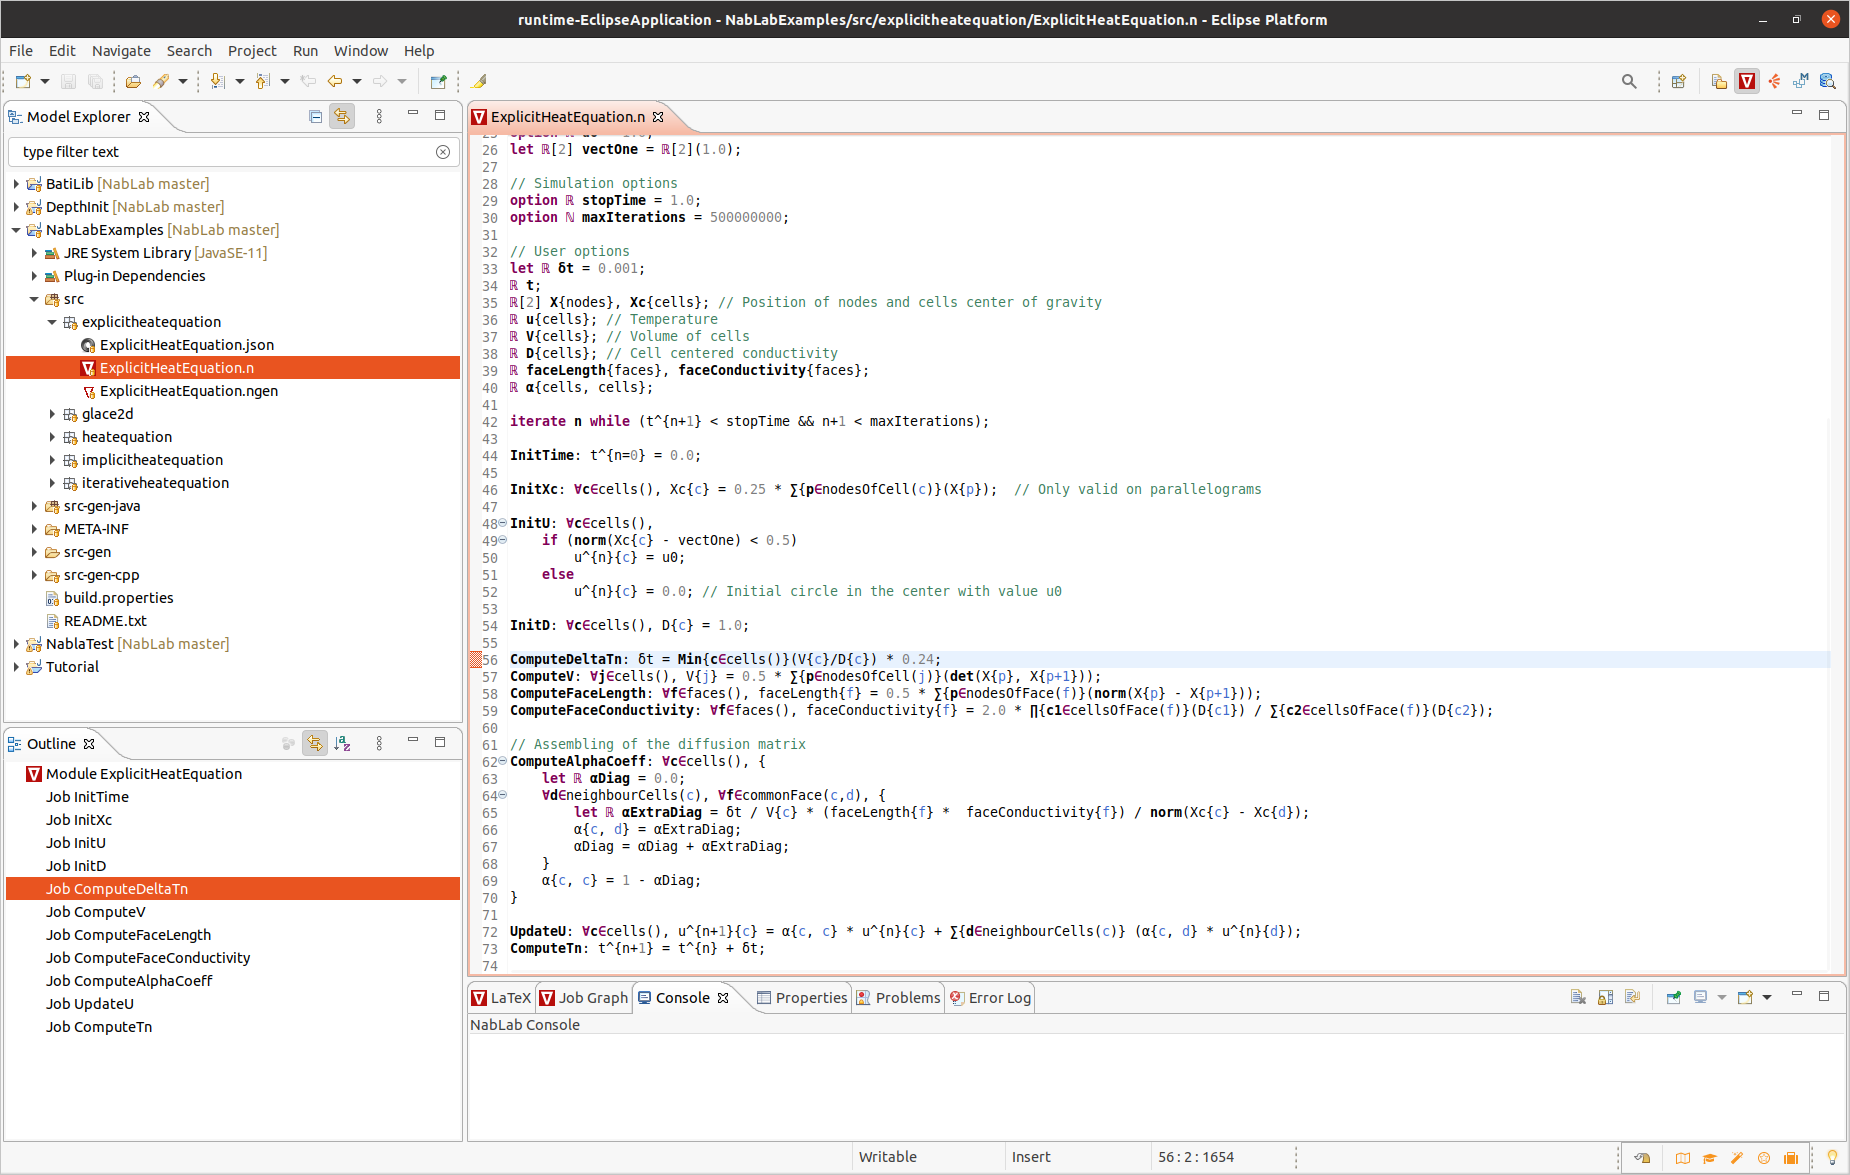
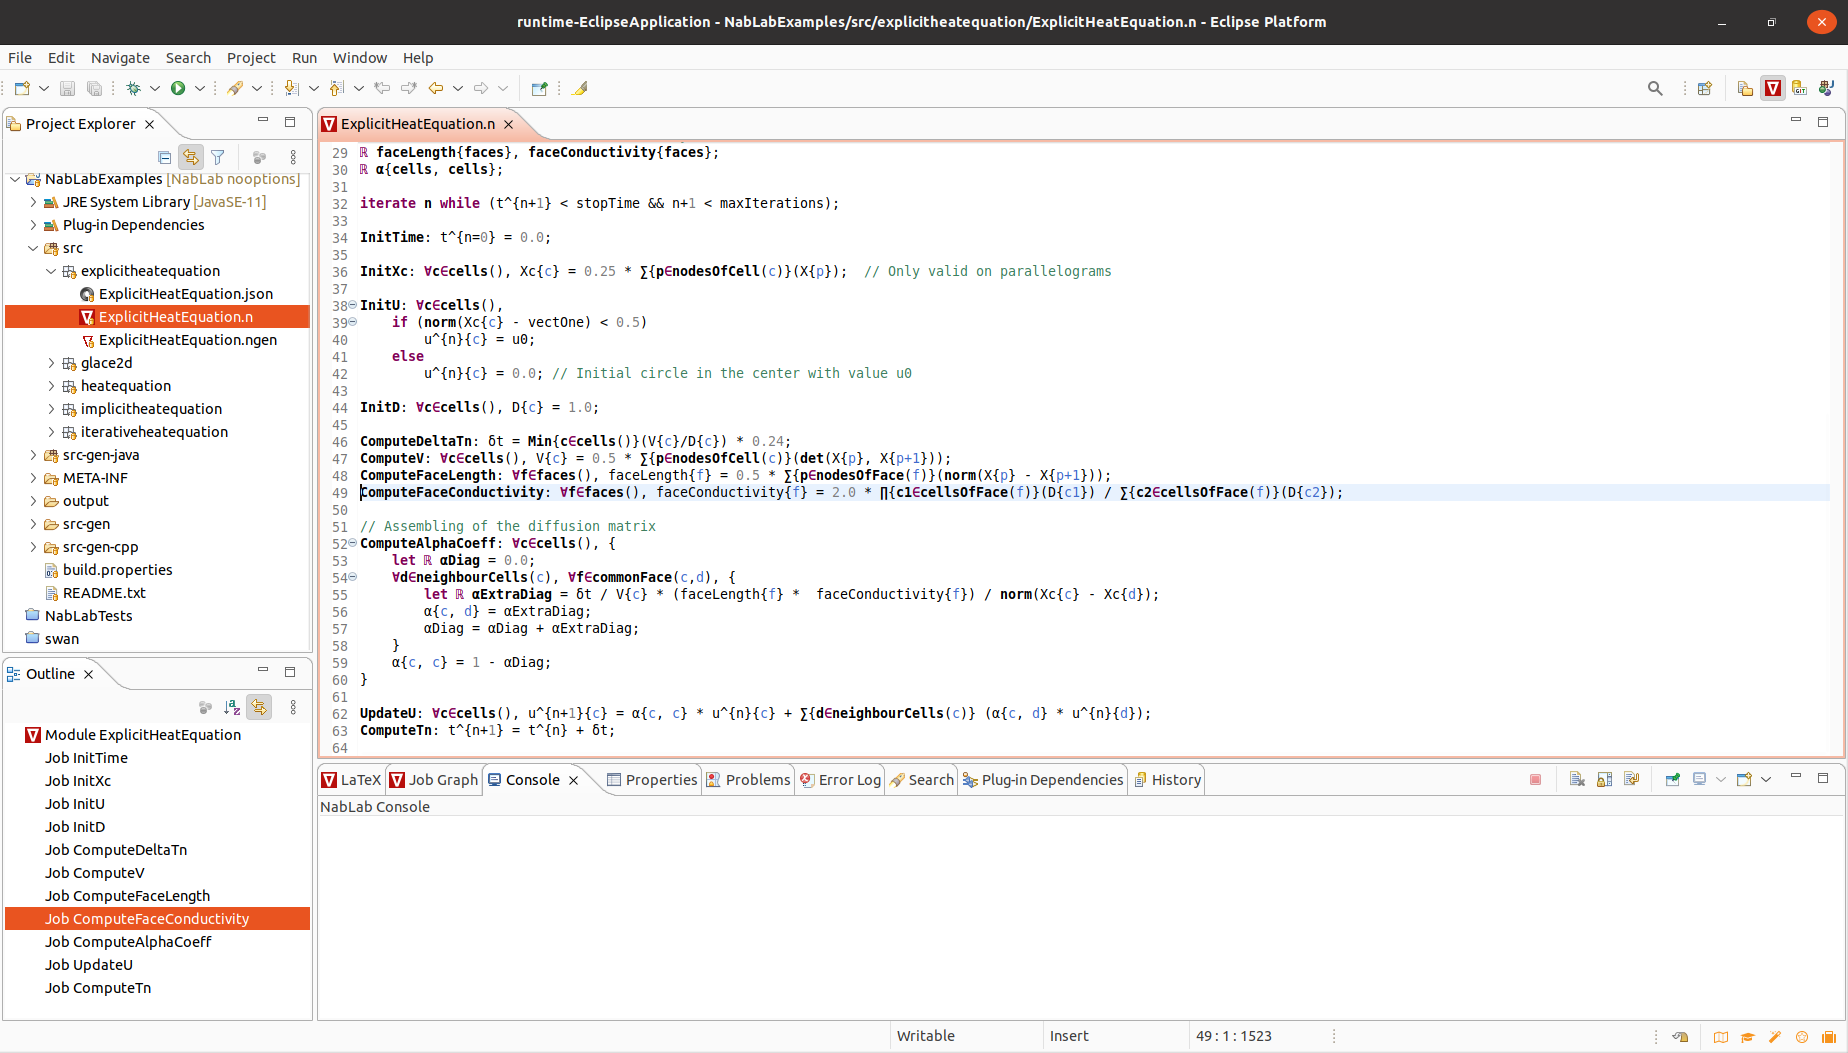
[doc] Documentation updated with no option
Documentation and screenshots updated.

diff --git a/docs/fr.cea.nabla.mkdocs/docs/firstmodule.md b/docs/fr.cea.nabla.mkdocs/docs/firstmodule.md
@@ -79,34 +79,27 @@ with Math.*;
 with CartesianMesh2D.*;
 ```
 
-### Options
-
-The next part of the file relates to the definition of options: variables whose value can be set in the user data file. Two kinds of options are defined, simulation and user options:
-
-```
-// Simulation options
-option ℝ stopTime = 0.1;
-option ℕ maxIterations = 500;
-
-// User options
-option ℝ PI = 3.1415926;
-option ℝ α = 1.0;
-```
-
-Simulation options represents the maximum time and number of iterations of the simulation. We will see below how they will define the conditions of the iteration loop. 
-
-
 ### Variables
 
-For the heat equation module, the variables are:
+For the heat equation module, the NabLab variables are:
 
+- *stopTime* and *maxIterations* representing the maximum time and number of iterations of the simulation,
+- *PI* and *α* representing two constants,
 - *δt* and *t* representing respectively the time step and time of the simulation. Time step is initialized with a default value. It will be constant during the simulation,
 - *X* and center representing respectively coordinates of nodes and center of cells,
 - *u*, *V* and *f* representing the cells' variables presented in the above equation,
 - *outgoingFlux* representing the $\frac{\Delta t}{V_M} \sum{K_{MM'} \frac{u_{M'}^n - u_{M}^n}{MM'}}$ part of the equation,
 - *surface* representing the surface of faces.
 
+The *stopTime* and *maxIterations* variables have no default value and will not be set in the module.
+Consequently, during the generation process, they will be considered as user's options: their value has to be set by the final user in a [Json](https://www.json.org) data file.
+
 ```
+ℝ stopTime;
+ℕ maxIterations;
+
+let ℝ PI = 3.1415926;
+let ℝ α = 1.0;
 let ℝ δt = 0.001;
 ℝ t;
 ℝ[2] X{nodes}, center{cells};
@@ -282,7 +275,10 @@ After the compilation of the application, a *heatequation* executable is availab
 
 ## Execution
 
-To execute the application, a data file is needed. NabLab generates a template named *HeatEquationDefault.json* in the *src-gen* directory. Copy this file, paste it in the *src* directory, rename it *HeatEquation.json* (select the file in the explorer and press `F2` key) and double-click on it in the explorer to open the json editor.
+To execute the application, a data file is needed. NabLab generates a template named *HeatEquationDefault.json* in the *src-gen* directory.
+Copy this file, paste it in the *src* directory, rename it *HeatEquation.json* (select the file in the explorer and press `F2` key) and double-click on it in the explorer to open the json editor.
+
+You can observe that stopTime and maxIterations variables have been detected as user options and generated in the *json* template.
 
 Remove the comment line, the file is no more generated, and add a mesh block as follows:
 
@@ -295,8 +291,8 @@ Remove the comment line, the file is no more generated, and add a mesh block as 
 		"outputPeriod":1,
 		"stopTime":0.1,
 		"maxIterations":500,
-		"PI":3.1415926,
-		"alpha":1.0
+		"_nonRegression_comment":"empty value to disable, CreateReference or CompareToReference to take action",
+		"nonRegression":""
 	},
 	"mesh":
 	{

diff --git a/docs/fr.cea.nabla.mkdocs/docs/nablablanguage.md b/docs/fr.cea.nabla.mkdocs/docs/nablablanguage.md
@@ -15,7 +15,7 @@ A `module` represents a NabLab program and its definition strictly follows the f
 - Imports
 - Reductions
 - Functions
-- Variables and options
+- Variables
 - Time iterators
 - Jobs
 
@@ -183,15 +183,13 @@ Multiple variables can be declared in the same instruction into a comma separate
 ```
 
 A variable initialized with a default value is preceded by the `let` keyword. It is not possible to assign several variables in one definition.
-A user option is preceded by the `option` keyword. The option can be set in a [Json](https://www.json.org) data file. If the option has a default value it becomes optional in the data file otherwise the execution will produce an error if the option has no default value and is not found in the data file.
+A variable with no default value and not set in the module is considered as a user's option: its value has to be set by the final user in a [Json](https://www.json.org) data file.
 
 ```
 let ℝ γ = 3.0;                      // real scalar
 let ℝ[2] N = [0.0, 1.0];            // 1 dimension real array
 let ℝ[2, 2] N = [ [0.0, 1.0], N ];  // 2 dimensions real array
 let ℕ[2,2] I = [ [1, 0], [0, 1] ];  // 2 dimensions int array
-option ℕ maxIter = 200;             // optional integer user option
-option ℝ maxTime;                   // mandatory real user option
 ```
 
 ## Time iterators
@@ -257,7 +255,7 @@ An instruction ends with the `;` character except blocks surrounded by curly bra
 
 ### Local variables and set definitions
 
-Local variables can be defined with the same syntax than global ones but local definitions include neither variables with supports nor user options.
+Local variables can be defined with the same syntax than global ones but local definitions include no variables with supports.
 
 Set of items can be defined locally by calling a connectivity, like this:
 ```

diff --git a/docs/fr.cea.nabla.mkdocs/docs/ngenlanguage.md b/docs/fr.cea.nabla.mkdocs/docs/ngenlanguage.md
@@ -78,7 +78,7 @@ LevelDB
 !!! note
 	The `leveldb_ROOT` value supports CMake syntax like `$ENV{HOME}` in the example above.
 
-When the `LevelDB`block exists in the *ngen* file, the `nonRegression` option must appear in the Json data file. If its value is `CreateReference`, variables are dumped in a directory named *ApplicationNameDB.ref*. If its value is `CompareToReference`, variables are dumped in a directory named *Application NameDB.current* and are compared to variables stored in *ApplicationNameDB.ref*.
+When the `LevelDB`block exists in the *ngen* file, the `nonRegression` key must appear in the *Json* data file. If its value is `CreateReference`, variables are dumped in a directory named *ApplicationNameDB.ref*. If its value is `CompareToReference`, variables are dumped in a directory named *Application NameDB.current* and are compared to variables stored in *ApplicationNameDB.ref*.
 
 ```
 "_nonRegression_comment":"empty value to disable, CreateReference or CompareToReference to take action",

diff --git a/docs/fr.cea.nabla.mkdocs/docs/gettingstarted.md b/docs/fr.cea.nabla.mkdocs/docs/gettingstarted.md
@@ -73,7 +73,7 @@ Just click on the *Finish* button to import the examples project that becomes av
 
 To launch code generation corresponding to the NabLab module, just right-click on the ngen file of the project of your choice, for example *NabLabExamples/src/explicitheatequation/ExplicitHeatEquation.ngen* and select *Generate Code*
 
-<img src="img/NabLab_generate_code.png" alt="NabLab Generate Code" title="NabLab Generate Code" width="50%" height="50%" />
+<img src="img/NabLab_generate_code.png" alt="NabLab Generate Code" title="NabLab Generate Code" width="40%" height="40%" />
 
 Java and C++ source code files are generated in *src-gen-java* and *src-gen-cpp* folders respectively. For each C++ folder a *CMakeLists.txt* file is generated.
 A LaTeX file containing the content of the jobs and an example of json data file are also generated in the *src-gen* folder.  

diff --git a/docs/fr.cea.nabla.mkdocs/docs/modulecomposition.md b/docs/fr.cea.nabla.mkdocs/docs/modulecomposition.md
@@ -29,9 +29,8 @@ module Hydro;
 
 with CartesianMesh2D.*;
 
-option ℝ maxTime = 0.1;
-option ℕ maxIter = 500;
-option ℝ δt = 1.0;
+ℕ maxIter;
+ℝ maxTime, δt;
 let ℝ t = 0.0;
 ℝ[2] X{nodes};
 ℝ hv1{cells}, hv2{cells}, hv3{cells}, hv4{cells}, hv5{cells};
@@ -179,9 +178,8 @@ module Hydro;
 
 with CartesianMesh2D.*;
 
-option ℝ maxTime = 0.1;
-option ℕ maxIter = 500;
-option ℝ δt = 1.0;
+ℕ maxIter;
+ℝ maxTime, δt;
 let ℝ t = 0.0;
 ℝ[2] X{nodes};
 ℝ hv1{cells}, hv2{cells}, hv3{cells}, hv4{cells}, hv5{cells}, hv6{cells}, hv7{cells};
